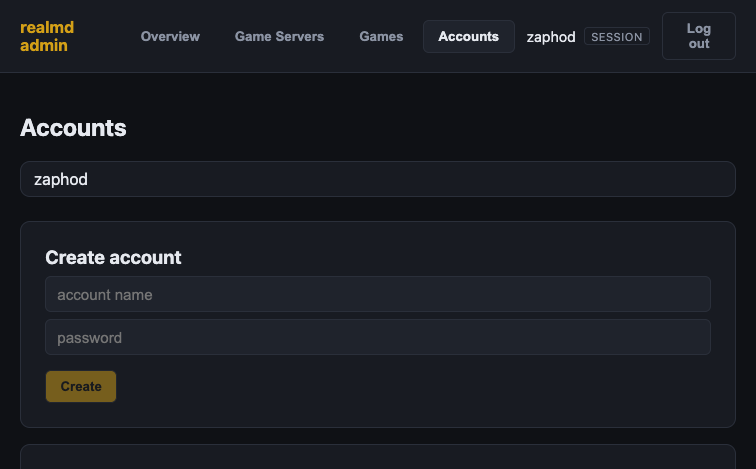
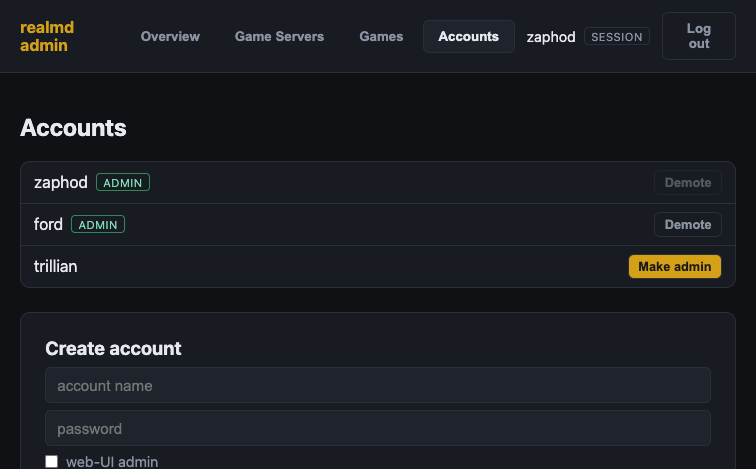
webui: admin-ness as a DB flag + create-admin + bootstrap
Admin access is now a flag stored on the account, not just the
REALMD_ADMINS env allowlist (which stays as an OR'd-in static override:
lockout escape hatch + SSO users with no realm account).

- fs.zig account record 21->22 bytes (+admin flag); old records read as
  non-admin. Accounts are always fs-backed (redis/pg delegate), so this
  is the only backend touched. store.setAdmin / accountIsAdmin facade.
- admin.zig: isAdmin = DB flag OR env; the API stays enabled across
  restarts whenever a DB admin exists (startup scan). New endpoint
  POST /admin/accounts/admin promote/demote (self-demote blocked);
  GET /admin/accounts returns {name,admin}; create accepts admin:true.
- realmd create-admin <name> [password]: offline subcommand, no server
  or token, writes the configured store. REALMD_ADMIN_BOOTSTRAP=name[:pw]
  ensures an admin on boot (idempotent, k8s-Secret friendly).
- UI: Accounts tab shows an admin badge + make-admin/demote per row
  (own-row demote disabled) and a web-UI-admin checkbox on create.
- docs: webui/README, deploy/AUTHENTIK-SSO, root README updated.

diff --git a/webui/src/App.tsx b/webui/src/App.tsx
@@ -2,6 +2,7 @@ import { useCallback, useEffect, useState } from "react";
 import {
   api,
   ApiError,
+  type Account,
   type Game,
   type GameServer,
   type Me,
@@ -145,7 +146,7 @@ function Dashboard(props: { me: Me; onLogout: () => void }) {
         {tab === "overview" && <Overview />}
         {tab === "gameservers" && <GameServers />}
         {tab === "games" && <Games />}
-        {tab === "accounts" && <Accounts />}
+        {tab === "accounts" && <Accounts me={props.me} />}
       </main>
     </div>
   );
@@ -286,8 +287,22 @@ function Games() {
   );
 }
 
-function Accounts() {
-  const { data, err, reload } = usePoll<{ accounts: string[] }>(api.accounts);
+function Accounts(props: { me: Me }) {
+  const { data, err, reload } = usePoll<{ accounts: Account[] }>(api.accounts);
+  const [busy, setBusy] = useState<string | null>(null);
+
+  const toggle = async (a: Account) => {
+    setBusy(a.name);
+    try {
+      await api.setAdmin(a.name, !a.admin);
+      await reload();
+    } catch (e) {
+      alert(e instanceof Error ? e.message : String(e));
+    } finally {
+      setBusy(null);
+    }
+  };
+
   return (
     <section className="cols">
       <div>
@@ -300,9 +315,32 @@ function Accounts() {
           <Empty msg="No accounts." />
         ) : (
           <ul className="list">
-            {data.accounts.map((a) => (
-              <li key={a}>{a}</li>
-            ))}
+            {data.accounts.map((a) => {
+              const isSelf =
+                a.name.toLowerCase() === props.me.name.toLowerCase();
+              return (
+                <li key={a.name} className="acct">
+                  <span>
+                    {a.name}
+                    {a.admin && <span className="via via-sso">admin</span>}
+                  </span>
+                  <button
+                    className={a.admin ? "ghost" : ""}
+                    disabled={busy === a.name || (a.admin && isSelf)}
+                    title={
+                      a.admin && isSelf ? "you can't demote yourself" : undefined
+                    }
+                    onClick={() => toggle(a)}
+                  >
+                    {busy === a.name
+                      ? "…"
+                      : a.admin
+                        ? "Demote"
+                        : "Make admin"}
+                  </button>
+                </li>
+              );
+            })}
           </ul>
         )}
       </div>
@@ -317,17 +355,19 @@ function Accounts() {
 function CreateAccount(props: { onDone: () => void }) {
   const [name, setName] = useState("");
   const [password, setPassword] = useState("");
+  const [admin, setAdmin] = useState(false);
   return (
     <ActionForm
       title="Create account"
       submitLabel="Create"
       disabled={!name.trim() || !password}
       onSubmit={async () => {
-        await api.createAccount(name.trim(), password);
+        await api.createAccount(name.trim(), password, admin);
         setName("");
         setPassword("");
+        setAdmin(false);
         props.onDone();
-        return "Account created.";
+        return admin ? "Admin account created." : "Account created.";
       }}
     >
       <input
@@ -341,6 +381,14 @@ function CreateAccount(props: { onDone: () => void }) {
         value={password}
         onChange={(e) => setPassword(e.target.value)}
       />
+      <label className="check">
+        <input
+          type="checkbox"
+          checked={admin}
+          onChange={(e) => setAdmin(e.target.checked)}
+        />
+        web-UI admin
+      </label>
     </ActionForm>
   );
 }

diff --git a/webui/src/api.ts b/webui/src/api.ts
@@ -32,6 +32,11 @@ export interface Me {
   via: "session" | "sso" | "token";
 }
 
+export interface Account {
+  name: string;
+  admin: boolean;
+}
+
 export class ApiError extends Error {
   constructor(
     public status: number,
@@ -72,10 +77,15 @@ export const api = {
   status: () => req<Status>("GET", "/admin/status"),
   gameservers: () => req<GameServer[]>("GET", "/admin/gameservers"),
   games: () => req<Game[]>("GET", "/admin/games"),
-  accounts: () => req<{ accounts: string[] }>("GET", "/admin/accounts"),
+  accounts: () => req<{ accounts: Account[] }>("GET", "/admin/accounts"),
 
-  createAccount: (name: string, password: string) =>
-    req<{ created: boolean }>("POST", "/admin/accounts", { name, password }),
+  createAccount: (name: string, password: string, admin = false) =>
+    req<{ created: boolean }>("POST", "/admin/accounts", { name, password, admin }),
+  setAdmin: (name: string, admin: boolean) =>
+    req<{ name: string; admin: boolean }>("POST", "/admin/accounts/admin", {
+      name,
+      admin,
+    }),
   closeGame: (name: string) =>
     req<{ closed: boolean }>("POST", "/admin/games/close", { name }),
   copyChar: (p: {

diff --git a/webui/src/styles.css b/webui/src/styles.css
@@ -233,6 +233,37 @@ tbody tr:last-child td {
 .list li:last-child {
   border-bottom: none;
 }
+.acct {
+  display: flex;
+  align-items: center;
+  justify-content: space-between;
+  gap: 0.5rem;
+}
+.acct > span {
+  display: inline-flex;
+  align-items: center;
+  gap: 0.5rem;
+}
+.acct button {
+  padding: 0.25rem 0.6rem;
+  font-size: 0.8rem;
+}
+button.ghost {
+  background: transparent;
+  color: var(--muted);
+}
+.check {
+  display: flex;
+  align-items: center;
+  gap: 0.5rem;
+  color: var(--muted);
+  font-size: 0.9rem;
+  margin: 0.4rem 0;
+}
+.check input {
+  width: auto;
+  margin: 0;
+}
 .forms {
   display: flex;
   flex-direction: column;

diff --git a/webui/README.md b/webui/README.md
@@ -29,20 +29,41 @@ The deploy image (`deploy/Dockerfile`, `--target realmd`) builds with `-Dwebui=t
 the same listener as `/healthz`, `/readyz`, and `/admin/*`. Any non-probe, non-`/admin`
 GET returns the SPA. The page is static; every data call hits `/admin/*`, which is gated.
 
-There are three ways in (set any/all; the API is disabled — 403 — if none is set):
+**Who is an admin** is a flag stored on the account in the DB. `REALMD_ADMINS`
+(comma-separated, case-insensitive) is an additional static allowlist — an OR'd-in
+override that's a lockout escape hatch and the way an SSO user with no realm account is
+let in. The API is enabled whenever any auth path can grant access (a DB admin exists,
+or `REALMD_ADMINS` / `REALMD_TRUSTED_AUTH_HEADER` / `REALMD_ADMIN_TOKEN` is set); 403 if
+none.
 
-- **Account login** (`REALMD_ADMINS`) — sign in with a realm account that's in the
-  comma-separated allowlist, by its password. On success realmd sets an HMAC-signed,
-  `HttpOnly` session cookie (`REALMD_ADMIN_SECRET` is the signing key — set a stable one
-  so sessions survive restarts / work across replicas; otherwise a per-process key is used).
+Three ways to authenticate:
+
+- **Account login** — sign in with an admin realm account by its password. On success
+  realmd sets an HMAC-signed, `HttpOnly` session cookie (`REALMD_ADMIN_SECRET` is the
+  signing key — set a stable one so sessions survive restarts / work across replicas;
+  otherwise a per-process key is used).
 - **SSO** (`REALMD_TRUSTED_AUTH_HEADER`) — behind an Authentik/oauth2-proxy forward-auth
   ingress, realmd trusts the injected identity header (e.g. `X-authentik-username`); the
-  user must still be in `REALMD_ADMINS`. The UI shows no login form — `/admin/me` is
-  already authenticated. See [`../deploy/AUTHENTIK-SSO.md`](../deploy/AUTHENTIK-SSO.md).
+  user must be a DB admin or in `REALMD_ADMINS`. The UI shows no login form — `/admin/me`
+  is already authenticated. See [`../deploy/AUTHENTIK-SSO.md`](../deploy/AUTHENTIK-SSO.md).
 - **Bearer token** (`REALMD_ADMIN_TOKEN`) — `Authorization: Bearer <token>`, for
   scripts/CI and break-glass. Not used by the UI. Treat it like a root password.
 
-The header shows who you are and how (`session` / `sso` / `token`).
+The header shows who you are and how (`session` / `sso` / `token`). Admins can
+promote/demote other accounts from the Accounts tab (you can't demote yourself).
+
+### Creating admins
+
+```sh
+# offline, no running server or token (uses the configured store backend):
+realmd create-admin <name> [password]
+
+# or declaratively on boot (idempotent; great for a k8s Secret):
+REALMD_ADMIN_BOOTSTRAP=name:password   # password optional → SSO-only admin
+
+# or, once you have one admin, promote others from the Accounts tab / API:
+curl -b cookie -d '{"name":"bob","admin":true}' .../admin/accounts/admin
+```
 
 > The health/admin port must **not** be public. Reach it via `kubectl port-forward`, or
 > an authenticated ingress (the SSO setup above) — never expose port 8080 directly, since

diff --git a/deploy/AUTHENTIK-SSO.md b/deploy/AUTHENTIK-SSO.md
@@ -133,19 +133,25 @@ env:
   - name: REALMD_TRUSTED_AUTH_HEADER
     value: X-authentik-username
   - name: REALMD_ADMINS
-    value: "alice,bob"            # Authentik usernames == realm account names
+    value: "alice,bob"            # Authentik usernames allowed in (SSO needs no account)
   - name: REALMD_ADMIN_SECRET     # stable HMAC key for account-login sessions
     valueFrom:
       secretKeyRef: { name: realmd-admin, key: secret }
 ```
 
-- `REALMD_ADMINS` is the single allowlist for **both** SSO and password login. An SSO
-  user only gets in if their Authentik username is in this list.
+- Admin-ness is primarily a **DB flag** on the account (set via `realmd create-admin`,
+  `REALMD_ADMIN_BOOTSTRAP`, or the UI's promote/demote). `REALMD_ADMINS` is an additional
+  static allowlist OR'd on top — use it for **SSO users who have no realm account** (the
+  Authentik username just needs to be listed), and as a lockout escape hatch.
 - `REALMD_ADMIN_SECRET` only matters for the password-login session cookie; with pure
   SSO you can omit it (every request is re-authenticated by nginx). Set it (and share it
   across replicas) if you also want account-login sessions to survive restarts.
 - Leave `REALMD_ADMIN_TOKEN` **unset** in prod — it's a bearer bypass for scripts/CI and
   break-glass; if you set it, treat it like a root password.
+
+To seed the first admin declaratively, add a `REALMD_ADMIN_BOOTSTRAP=name:password` env
+from a Secret (idempotent on every boot), or run `kubectl exec deploy/realmd -- realmd
+create-admin <name> <password>` once.
 
 After this, hitting `https://realmd.typeguru.nl` redirects through Authentik; once logged
 in, the UI loads with no second prompt (`/admin/me` returns `via: "sso"`).

diff --git a/README.md b/README.md
@@ -78,10 +78,12 @@ to `nodeIP:4000`:
 A small Vite + React UI ([`webui/`](webui/)) over realmd's `/admin/*` JSON API —
 fleet/games/accounts at a glance, plus create-account, close-game and copy-char. It
 bundles to one self-contained `index.html` and is embedded into the realmd binary
-(`zig build realmd-bin -Dwebui=true`), served on the health/admin port. Sign in with a
-realm admin account (`REALMD_ADMINS` + password → signed session cookie), or front it with
-Authentik/oauth2-proxy SSO ([`deploy/AUTHENTIK-SSO.md`](deploy/AUTHENTIK-SSO.md)); a
-bearer token (`REALMD_ADMIN_TOKEN`) stays for scripts/break-glass. Keep port 8080 behind a
+(`zig build realmd-bin -Dwebui=true`), served on the health/admin port. Admin-ness is a
+DB flag on the account — seed one with `realmd create-admin <name> <password>` or
+`REALMD_ADMIN_BOOTSTRAP`, then sign in (password → signed session cookie) and promote
+others from the UI. Or front it with Authentik/oauth2-proxy SSO
+([`deploy/AUTHENTIK-SSO.md`](deploy/AUTHENTIK-SSO.md)); a bearer token
+(`REALMD_ADMIN_TOKEN`) stays for scripts/break-glass. Keep port 8080 behind a
 port-forward or the authed ingress, never public.
 
 ![realmd admin — overview](webui/img/overview.png)
